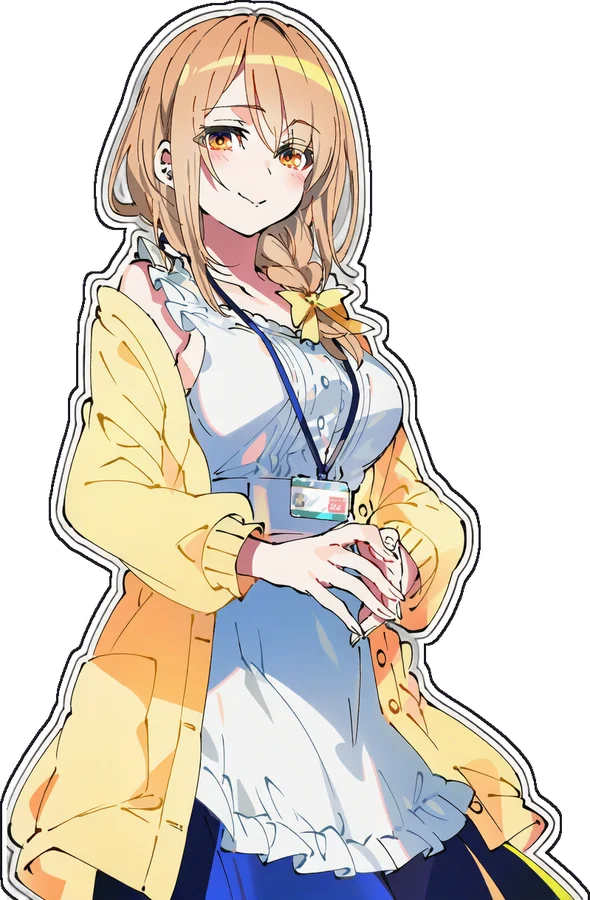
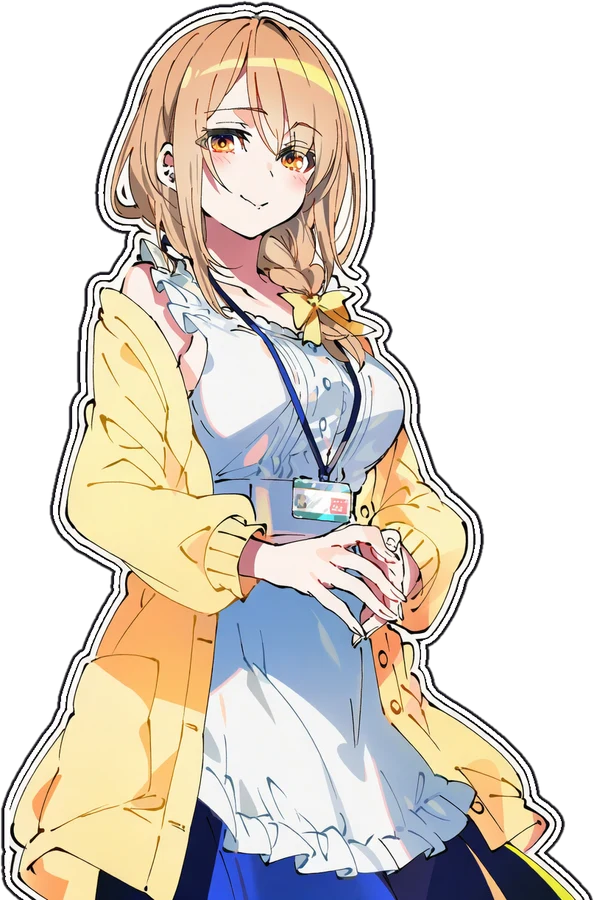
대전 시작 VS 화면, 스프라이트 다시 따기, 아이리 크기, 숫자 배지 테두리
- 대전 전 VS 화면 (누르거나 아무 키나 누르면 넘어감)
- 스프라이트 칼선 다시 땀: 큰 덩어리만 남기고 머리카락 사이 구멍 메움, 흰+먹 테두리 한 겹
- 아이리 스프라이트 0.86배
- 카드 숫자 배지 테두리 얇게

Claude-Session: https://claude.ai/code/session_01NPydC4cgnycGE27ajFik3f

diff --git a/css/p.css b/css/p.css
@@ -25,7 +25,7 @@ body{background:#1e1a22;overflow:hidden}
 /* ---------- 카드 (B안) ---------- */
 .pc2{--w:118px;position:relative;width:var(--w);padding-top:calc(var(--w)*.2);font-size:calc(var(--w)*.1);flex:none;text-align:left;color:var(--ink2)}
 .pc2.s{--w:64px}.pc2.xs{--w:48px}.pc2.m{--w:118px}.pc2.l{--w:180px}.pc2.xl{--w:230px}
-.pnum{position:absolute;left:calc(var(--w)*.2 - 2em - .4em);top:0;width:4em;height:4em;box-sizing:border-box;border-radius:50%;border:max(2px,.28em) solid var(--ink2);display:flex;align-items:center;justify-content:center;font:400 2.3em/1 "Black Han Sans",sans-serif;z-index:2;letter-spacing:-.02em}
+.pnum{position:absolute;left:calc(var(--w)*.2 - 2em - .4em);top:0;width:4em;height:4em;box-sizing:border-box;border-radius:50%;border:solid var(--ink2);border-width:max(2px,calc(var(--w)*.02));display:flex;align-items:center;justify-content:center;font:400 2.3em/1 "Black Han Sans",sans-serif;z-index:2;letter-spacing:-.02em}
 .pnum{width:4em;height:4em;font-size:1em}
 .pnum{font-family:"Black Han Sans",sans-serif;font-size:2.3em;width:1.74em;height:1.74em;left:-.18em}
 .pnum.long{font-size:1.6em;width:2.5em;height:2.5em;left:-.26em}
@@ -244,3 +244,27 @@ body{background:#1e1a22;overflow:hidden}
 
 #play .abil b{background:var(--ink2);color:#fff;padding:0 7px;border-radius:999px;font-size:11px;margin-right:4px}
 #play .otag .abil b{background:var(--cY);color:var(--ink2)}
+
+/* VS 화면 */
+.vs{position:absolute;inset:0;z-index:40;overflow:hidden;cursor:pointer;background:var(--ink2)}
+.vs .vsl,.vs .vsr{position:absolute;top:-10%;height:120%;width:70%;animation:vsIn .45s cubic-bezier(.2,.9,.3,1.2) both}
+.vs .vsl{left:-12%;transform:skewX(-14deg);--from:-60%}
+.vs .vsr{right:-12%;transform:skewX(-14deg);--from:60%;animation-delay:.08s}
+.vs .vsl{border-right:8px solid var(--ink2)}.vs .vsr{border-left:8px solid var(--ink2)}
+.vs .cM{background:var(--cM)}.vs .cK{background:#4a3a5c}.vs .cY{background:var(--cY)}.vs .cC{background:var(--cC)}
+.vs .vsl::after,.vs .vsr::after{content:"";position:absolute;inset:0;background:radial-gradient(rgba(30,26,34,.22) 1.6px,transparent 1.6px);background-size:14px 14px}
+@keyframes vsIn{from{translate:var(--from) 0}}
+.vs .vsp{position:absolute;top:40px;width:640px;height:720px;animation:vsP .5s .12s cubic-bezier(.2,.9,.3,1.1) both}
+.vs .vsp .spr{position:absolute}
+.vs .vsp.l{left:-10px;--from:-300px}.vs .vsp.r{right:-10px;--from:300px}
+.vs .vsp.r .spr{left:auto!important;right:0}
+@keyframes vsP{from{translate:var(--from) 0;opacity:0}}
+.vs .vsn{position:absolute;bottom:56px;display:flex;flex-direction:column;gap:6px;animation:vsP .45s .3s both}
+.vs .vsn b{font:400 76px/1 "Black Han Sans";color:#fff;-webkit-text-stroke:7px var(--ink2);paint-order:stroke fill;text-shadow:6px 6px 0 var(--ink2)}
+.vs .vsn span{align-self:flex-start;font-size:15px;font-weight:900;background:#fff;border:3px solid var(--ink2);border-radius:999px;padding:3px 14px;box-shadow:3px 3px 0 var(--ink2)}
+.vs .vsn.l{left:48px;--from:-200px}.vs .vsn.r{right:48px;align-items:flex-end;--from:200px}.vs .vsn.r span{align-self:flex-end}
+.vs .vsx{position:absolute;left:50%;top:44%;transform:translate(-50%,-50%) rotate(-8deg);font:400 190px/1 "Black Han Sans";color:var(--cY);-webkit-text-stroke:12px var(--ink2);paint-order:stroke fill;text-shadow:10px 10px 0 var(--ink2);animation:vsX .5s .45s cubic-bezier(.2,1.6,.4,1) both}
+@keyframes vsX{from{transform:translate(-50%,-50%) rotate(-8deg) scale(3);opacity:0}}
+.vs .vsi{position:absolute;left:50%;top:20px;transform:translateX(-50%);font-size:14px;font-weight:900;background:var(--ink2);color:#fff;border-radius:999px;padding:6px 16px;animation:vsP .4s .5s both}
+.vs.out{animation:vsOut .35s forwards}
+@keyframes vsOut{to{opacity:0;transform:scale(1.06)}}

diff --git a/js/screens.js b/js/screens.js
@@ -58,7 +58,10 @@ const Screens=(()=>{
 })();
 const S=Screens.SCR;
 const av=k=>`img/p/${k}_av.webp`;
-const spr=(k,x,y,h,st='')=>`<img class="spr" src="img/p/${k}.webp" alt="${CASTS[k].name}" style="left:${x}px;top:${y}px;height:${h}px;${st}">`;
+// 캐스트마다 그림 여백이 달라서 키를 맞춘다 (아이리 스프라이트가 크게 잘려 있음)
+const SPR_SCALE={iri:.86,miko:1,haru:1,mina:1};
+const spr=(k,x,y,h,st='')=>{const f=SPR_SCALE[k]||1,h2=Math.round(h*f);
+  return `<img class="spr" src="img/p/${k}.webp" alt="${CASTS[k].name}" style="left:${Math.round(x+h*(1-f)*.3)}px;top:${Math.round(y+(h-h2)*.55)}px;height:${h2}px;${st}">`};
 const sceneBg=(night)=>`<img class="bgi" src="img/p/${night?'bg_night':'bg_day'}.webp" alt="" style="filter:blur(${night?0:1.6}px)">`;
 const counter=(props=[],night)=>`<img class="ctrimg" src="img/p/counter.webp" alt="">`+
   props.map(([n,x])=>{const P={cake:[187,106],cups:[123,97],jar:[144,149],tin:[182,109]}[n];return `<img class="spr" src="img/p/prop_${n}.webp" alt="" style="left:${x}px;top:${483-P[1]}px;width:${P[0]}px">`}).join('')+
@@ -139,9 +142,23 @@ S.match.bind=s=>{
 function startMatch(opt={}){const k=Save.d.duty,o={...MATCH_OPT,...opt};
   let opp=o.opp;if(opp==='rand'||opp===k){const c=CAST_KEYS.filter(x=>x!==k);opp=c[Math.random()*c.length|0]}
   DIFF=o.diff;MATCH=o.rounds;SEAT=[k,opp];Screens.ctx.story=o.story||null;CURRENT={story:o.story||null,opt:o};
-  seatSetup();Screens.go('play');newGame();
+  seatSetup();Screens.go('play');showVS(k,opp,o).then(()=>newGame());
 }
 let CURRENT={story:null,opt:{}};
+// 대전 시작 전 VS 화면. 누르거나 아무 키나 누르면 넘어간다
+function showVS(me,op,o={}){return new Promise(res=>{
+  const st=o.story&&STORY.find(x=>x.id===o.story);
+  const info=st?`스토리 · ${CASTS[st.k].name} 1장`:`${MATCH===1?'단판':MATCH+'판'} · AI ${{easy:'쉬움',normal:'보통',hard:'어려움'}[DIFF]}`;
+  const v=document.createElement('div');v.className='vs';v.setAttribute('role','dialog');v.setAttribute('aria-label',`${CASTS[me].name} 대 ${CASTS[op].name}`);
+  v.innerHTML=`<div class="vsl c${CAST_COL[me]}"></div><div class="vsr c${CAST_COL[op]}"></div><div class="vsline"></div>
+   <div class="vsp l">${spr(me,0,0,780)}</div><div class="vsp r">${spr(op,0,0,780)}</div>
+   <div class="vsn l"><b>${CASTS[me].name}</b><span>${Save.d.manager?Save.d.manager+' 매니저':'나'} · ${CASTS[me].type}</span></div>
+   <div class="vsn r"><b>${CASTS[op].name}</b><span>AI · ${CASTS[op].type}</span></div>
+   <div class="vsx">VS</div><div class="vsi">${info}</div>`;
+  $('stage').appendChild(v);let done=false;
+  const end=()=>{if(done)return;done=true;removeEventListener('keydown',end);v.classList.add('out');setTimeout(()=>{v.remove();res()},350)};
+  v.onclick=end;addEventListener('keydown',end);setTimeout(end,2200*Math.max(SPEED,.5));
+})}
 // 온라인 2인은 기존 캐스트 고르기 창(방 만들기·참가)을 그대로 쓴다
 function openOnline(){showPick();
   if(!$('pickClose')){const b=document.createElement('button');b.id='pickClose';b.type='button';b.className='guidebtn';b.textContent='돌아가기';

diff --git a/js/net.js b/js/net.js
@@ -60,7 +60,7 @@ function seatSetup(){
   const[me,op]=SEAT;DECK=[(!NET.on&&window.myDeck&&myDeck(me))||CASTS[me].deck,CASTS[op].deck];NAME[ME]=CASTS[me].name;NAME[AI]=CASTS[op].name;
   const tag=NET.on?' (상대)':' (AI · '+{easy:'쉬움',normal:'보통',hard:'어려움'}[DIFF]+')';
   $('nMe').textContent=NAME[ME];$('nAi').textContent=NAME[AI];$('nAiTag').textContent=NET.on?'상대':'AI · '+{easy:'쉬움',normal:'보통',hard:'어려움'}[DIFF];
-  $('sbMeAv').src=`img/p/${me}_av.webp`;$('sbAiAv').src=`img/p/${op}_av.webp`;$('meAv').src=`img/p/${me}_av.webp`;$('meName').textContent=NAME[ME];$('oppSp').src=`img/p/${op}.webp`;
+  $('sbMeAv').src=`img/p/${me}_av.webp`;$('sbAiAv').src=`img/p/${op}_av.webp`;$('meAv').src=`img/p/${me}_av.webp`;$('meName').textContent=NAME[ME];$('oppSp').src=`img/p/${op}.webp`;{const f=(typeof SPR_SCALE!=='undefined'&&SPR_SCALE[op])||1,o=$('oppSp');o.style.height=Math.round(500*f)+'px';o.style.top=Math.round(58+500*(1-f)*.55)+'px';o.style.left=Math.round(150+500*(1-f)*.3)+'px'}
   const rs=document.documentElement.style;rs.setProperty('--cMe',CASTS[me].back[0]);rs.setProperty('--cAi',CASTS[op].back[0]);$('aiWho').textContent=NAME[AI]+(NET.on?' (상대)':' (AI)');
   $('meAbil').innerHTML=CASTS[me].abil;$('aiAbil').innerHTML=CASTS[op].abil;
   document.documentElement.style.setProperty('--backA',CASTS[op].back[0]);document.documentElement.style.setProperty('--backB',CASTS[op].back[1]);
